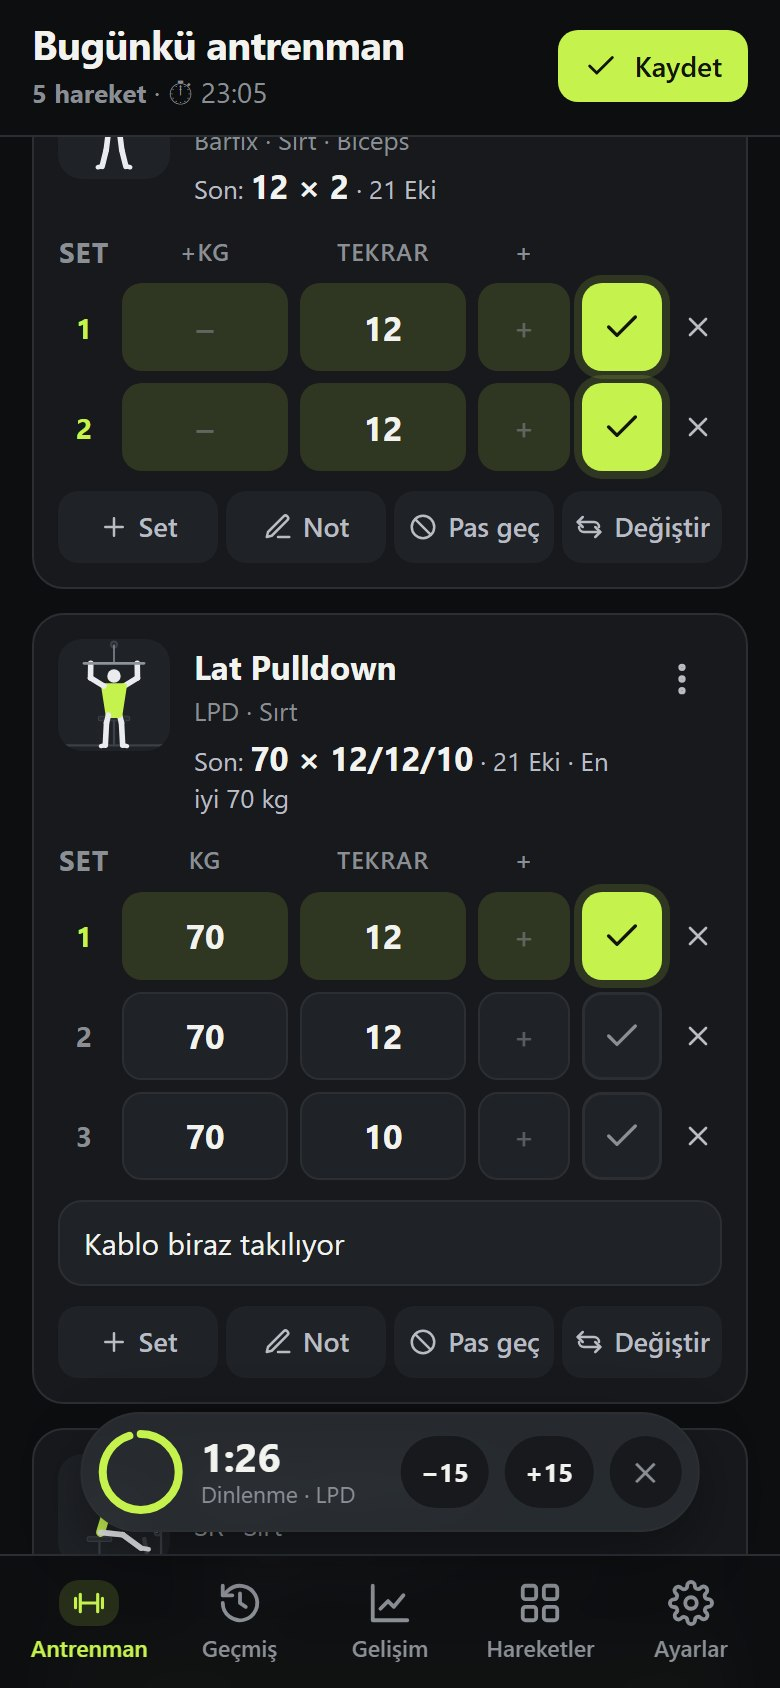
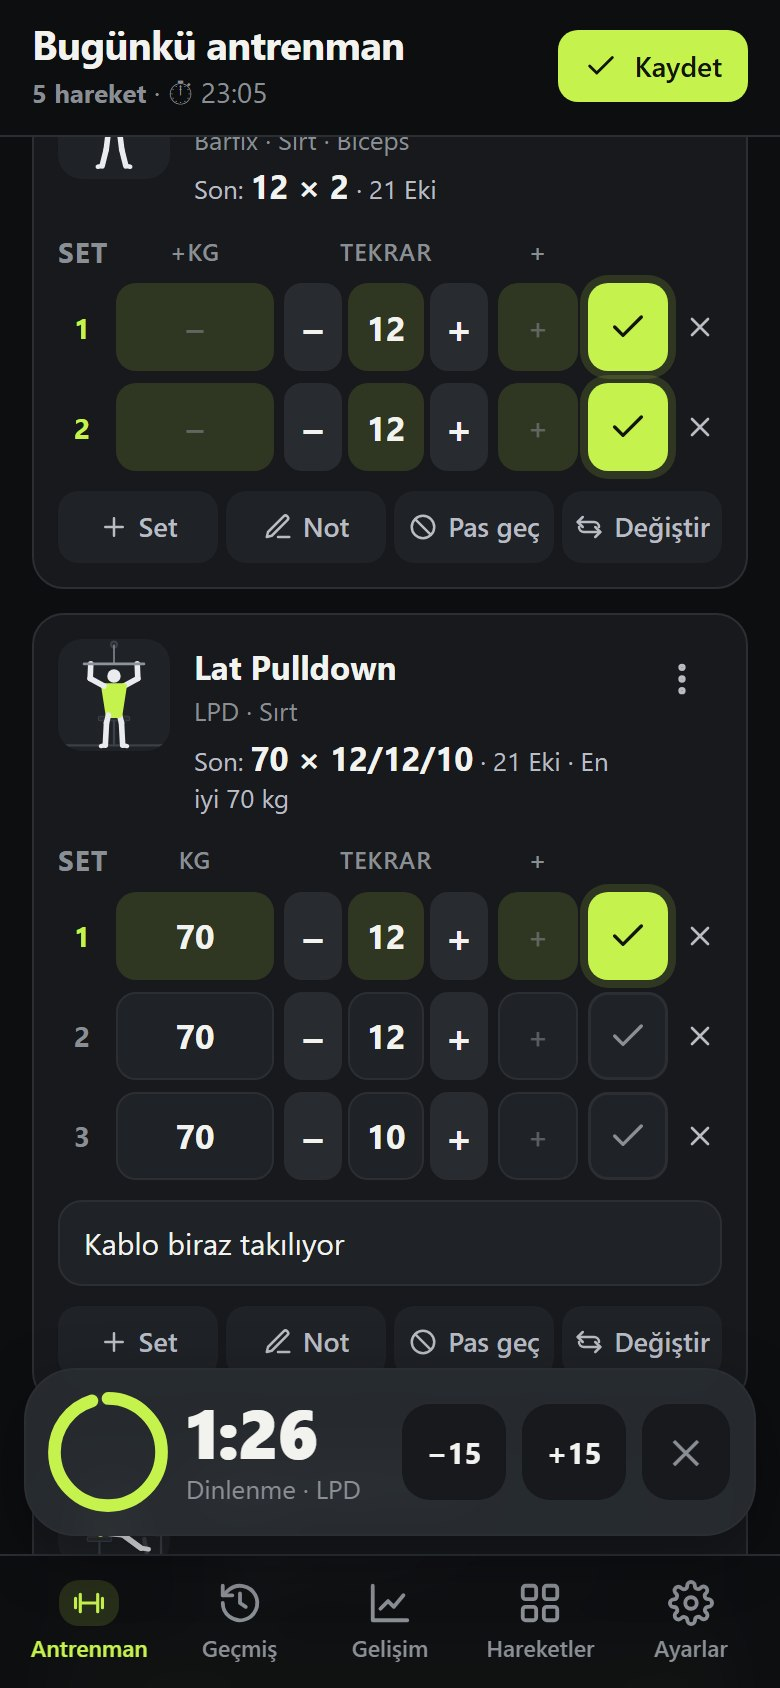
Fix backup download, add rep buttons, enlarge picker and rest timer
- Download the backup straight to Downloads instead of the share sheet,
  and explain that it does not need to be opened. Sharing to Drive or
  WhatsApp is a separate option, sent as a text file that phones accept.
- Add an "Install the app" button and banner, set a manifest id, allow
  any orientation and add install screenshots.
- Add −1/+1 buttons next to each reps field.
- Fix the animation grid in the exercise form collapsing to thin slices
  (grid rows now size to their content) and show larger previews there
  and in the exercise picker.
- Make the rest timer a wide card with a larger ring, time and buttons.

diff --git a/css/style.css b/css/style.css
@@ -281,11 +281,15 @@ select.input { appearance: none; background-image: linear-gradient(45deg, transp
 .skip-badge { display: inline-flex; align-items: center; gap: 6px; margin-top: 8px; color: var(--warn); font-weight: 650; font-size: 14px; }
 .skip-badge .ic { width: 16px; height: 16px; }
 .sets { display: grid; gap: 6px; margin-top: 12px; }
-.set-row { display: grid; grid-template-columns: 26px repeat(var(--cols, 2), minmax(0, 1fr)) 40px 24px; gap: 6px; align-items: center; position: relative; }
-.set-row:has(.small) { grid-template-columns: 26px minmax(0, 1fr) minmax(0, 1fr) 46px 40px 24px; }
-.sets.plan .set-row { grid-template-columns: 26px repeat(var(--cols, 2), minmax(0, 1fr)) 24px; }
-.sets.plan .set-row:has(.small) { grid-template-columns: 26px minmax(0, 1fr) minmax(0, 1fr) 46px 24px; }
-.set-row .set-del { width: 24px; }
+.set-row { display: grid; grid-template-columns: 24px repeat(var(--cols, 2), minmax(0, 1fr)) 40px 22px; gap: 5px; align-items: center; position: relative; }
+.set-row:has(.small) { grid-template-columns: 24px minmax(0, 1fr) 102px 40px 40px 22px; }
+.sets.plan .set-row { grid-template-columns: 24px repeat(var(--cols, 2), minmax(0, 1fr)) 22px; }
+.sets.plan .set-row:has(.small) { grid-template-columns: 24px minmax(0, 1fr) 102px 40px 22px; }
+.set-row .set-del { width: 22px; }
+.rep-step { display: flex; gap: 3px; min-width: 0; }
+.rep-step .set-in { flex: 1; min-width: 0; padding: 0; }
+.rep-btn { position: relative; overflow: hidden; flex: none; width: 29px; height: 44px; border-radius: 9px; border: 0; background: var(--surface-3); color: var(--text); font-size: 20px; font-weight: 700; line-height: 1; touch-action: manipulation; }
+.rep-btn:active { background: var(--accent-soft); color: var(--accent); }
 .set-row.head { font-size: 12px; color: var(--muted); font-weight: 600; text-transform: uppercase; letter-spacing: 0.04em; }
 .set-row.head .set-label { text-align: center; }
 .set-no { text-align: center; font-weight: 700; color: var(--muted); font-size: 14px; }
@@ -415,7 +419,9 @@ select.input { appearance: none; background-image: linear-gradient(45deg, transp
 .ex-tile .anim-box { margin-bottom: 4px; }
 .hidden-ex { margin-top: 20px; }
 .hidden-ex summary { color: var(--muted); font-weight: 600; padding: 8px 2px; cursor: pointer; }
-.anim-grid { display: grid; grid-template-columns: repeat(auto-fill, minmax(76px, 1fr)); gap: 8px; max-height: 300px; overflow-y: auto; padding: 2px; }
+.anim-grid { display: grid; grid-template-columns: repeat(auto-fill, minmax(96px, 1fr)); grid-auto-rows: max-content; gap: 8px; max-height: 420px; overflow-y: auto; padding: 2px; }
+.anim-choice .anim-box.sm { width: 80px; height: 80px; }
+.pick-row .anim-box.sm { width: 64px; height: 64px; }
 .anim-choice { display: grid; justify-items: center; gap: 4px; padding: 6px 4px; border-radius: 12px; border: 1px solid var(--line); background: var(--surface); font-size: 11.5px; color: var(--text-2); }
 .anim-choice.on { border-color: var(--accent); background: var(--accent-soft); color: var(--accent); }
 .plan-card .mini-anims { margin-top: 10px; }
@@ -523,23 +529,23 @@ select.input { appearance: none; background-image: linear-gradient(45deg, transp
 
 /* Dinlenme sayacı */
 .rest {
-  position: fixed; left: 50%; bottom: calc(var(--nav-h) + 14px + env(safe-area-inset-bottom)); z-index: 60;
-  display: flex; align-items: center; gap: 8px; padding: 7px 8px 7px 7px; border-radius: 999px;
+  position: fixed; left: 50%; bottom: calc(var(--nav-h) + 12px + env(safe-area-inset-bottom)); z-index: 60;
+  display: flex; align-items: center; gap: 8px; padding: 10px 12px 10px 10px; border-radius: 26px;
+  width: calc(100% - 24px); max-width: 460px;
   background: color-mix(in srgb, var(--surface-3) 92%, transparent); border: 1px solid var(--line); box-shadow: var(--shadow);
   backdrop-filter: blur(12px); -webkit-backdrop-filter: blur(12px);
   transform: translateX(-50%) translateY(160%); opacity: 0; pointer-events: none;
   transition: transform 0.4s cubic-bezier(.2, 1.3, .3, 1), opacity 0.25s;
-  max-width: calc(100% - 24px);
 }
 .rest.show { transform: translateX(-50%) translateY(0); opacity: 1; pointer-events: auto; }
-.rest-ring { width: 44px; height: 44px; flex: none; transform: rotate(-90deg); }
-.rest-ring .track { fill: none; stroke: var(--line); stroke-width: 4; }
-.rest-ring .bar { fill: none; stroke: var(--accent); stroke-width: 4; stroke-linecap: round; transition: stroke-dashoffset 0.25s linear; }
-.rest-text { display: grid; min-width: 92px; }
-.rest-time { font-size: 20px; font-variant-numeric: tabular-nums; line-height: 1.1; }
-.rest-label { font-size: 11.5px; color: var(--muted); white-space: nowrap; overflow: hidden; text-overflow: ellipsis; max-width: 130px; }
-.rest-btn { border: 0; background: var(--surface); color: var(--text); border-radius: 999px; height: 36px; min-width: 40px; padding: 0 10px; font-weight: 700; font-size: 13px; }
-.rest-btn.x { min-width: 36px; padding: 0; color: var(--muted); }
+.rest-ring { width: 62px; height: 62px; flex: none; transform: rotate(-90deg); }
+.rest-ring .track { fill: none; stroke: var(--line); stroke-width: 4.5; }
+.rest-ring .bar { fill: none; stroke: var(--accent); stroke-width: 4.5; stroke-linecap: round; transition: stroke-dashoffset 0.25s linear; }
+.rest-text { display: grid; flex: 1; min-width: 0; }
+.rest-time { font-size: 34px; font-weight: 800; font-variant-numeric: tabular-nums; line-height: 1; letter-spacing: -0.02em; }
+.rest-label { font-size: 13px; color: var(--muted); white-space: nowrap; overflow: hidden; text-overflow: ellipsis; margin-top: 3px; }
+.rest-btn { flex: none; border: 0; background: var(--surface); color: var(--text); border-radius: 14px; height: 48px; min-width: 52px; padding: 0 8px; font-weight: 750; font-size: 15px; }
+.rest-btn.x { min-width: 44px; padding: 0; color: var(--muted); font-size: 17px; }
 .rest.soon .rest-time { color: var(--warn); animation: pulse 0.5s ease-in-out infinite alternate; }
 .rest.done { background: var(--accent); border-color: transparent; animation: shake 0.45s ease 2; }
 .rest.done .rest-time, .rest.done .rest-label { color: var(--on-accent); }
@@ -564,6 +570,8 @@ select.input { appearance: none; background-image: linear-gradient(45deg, transp
 .ex-card.in-ss { border-left: 3px solid var(--series); }
 .ss-link { display: flex; align-items: center; justify-content: center; gap: 6px; margin: -6px 0; color: var(--series); font-size: 12px; font-weight: 700; text-transform: uppercase; letter-spacing: 0.06em; }
 .ss-link .ic { width: 14px; height: 14px; }
+.banner.install { padding: 8px 8px 8px 12px; }
+.banner.install > .ic { color: var(--series); }
 .banner.comeback { align-items: flex-start; background: rgba(250, 178, 25, 0.12); border-color: rgba(250, 178, 25, 0.45); margin: 12px 0 0; }
 .banner.comeback > .ic { color: var(--warn); margin-top: 2px; }
 .banner.comeback p { margin: 2px 0 0; color: var(--text-2); }

diff --git a/js/app.js b/js/app.js
@@ -164,6 +164,12 @@ function StartView() {
     return page;
   }
 
+  if (installEvt && !standalone() && !state.settings.installHidden) {
+    page.append(h('div.banner.install', null, icon('download'), h('span.grow', null, t("GymLog'u ana ekrana ekle")),
+      h('button.btn.sm.primary', { onclick: installApp }, t('Yükle')),
+      h('button.icon-btn.sm', { 'aria-label': t('Kapat'), onclick: () => { state.settings.installHidden = true; commit(); rerender(); } }, icon('x'))));
+  }
+
   const last = all[0];
   if (last) {
     const wp = weekProgress();
@@ -654,7 +660,22 @@ function ItemCard(doc, i, ctx) {
         all[all.indexOf(input) + 1]?.focus();
       });
       inputs[f.k] = input;
-      row.append(input);
+      if (f.k === 'r') {
+        // Tekrar için −1 / +1: boşsa geçen seferki tekrardan başlar
+        const step = (d) => {
+          const base = set.r ?? parseNum(input.placeholder) ?? 0;
+          set.r = Math.max(0, base + d);
+          input.value = String(set.r);
+          haptic(6);
+          pop(input);
+          ctx.changed();
+          markPR();
+        };
+        row.append(h('div.rep-step', null,
+          h('button.rep-btn', { type: 'button', 'aria-label': t('{n}. set tekrar −1', { n: j + 1 }), onclick: () => step(-1) }, '−'),
+          input,
+          h('button.rep-btn', { type: 'button', 'aria-label': t('{n}. set tekrar +1', { n: j + 1 }), onclick: () => step(1) }, '+')));
+      } else row.append(input);
     }
     if (!isPlan) {
       const check = h('button.set-check' + (set.done ? '.done' : ''), { type: 'button', 'aria-label': t('{n}. seti tamamla', { n: j + 1 }), 'aria-pressed': String(!!set.done) }, icon('check'));
@@ -1335,10 +1356,15 @@ function SettingsView() {
   page.append(pageHead(t('Ayarlar')));
   if (DEMO) page.append(demoBanner());
   const lb = state.settings.lastBackup;
+  if (!standalone()) {
+    page.append(section(t('Uygulama'), h('div.list', null,
+      settingRow('download', t('Uygulamayı yükle'), t('Ana ekrana ekle; tam ekran ve internetsiz açılır.'), installApp))));
+  }
   page.append(section(t('Veriler'),
     h('div.list', null,
       settingRow('file', t('Eski notlarımı içe aktar'), t('Telefondaki metin notlarını yapıştır, antrenmanlara çevireyim.'), () => importSheet()),
       settingRow('download', t('Yedeği indir'), lb ? t('Son yedek: {d}', { d: relDays(lb) }) : t('Henüz yedek alınmadı. Verilerin sadece bu cihazda.'), exportBackup),
+      textShareOK() ? settingRow('copy', t('Yedeği paylaş'), t('Drive, WhatsApp ya da e-postaya gönder.'), shareBackup) : null,
       settingRow('upload', t('Yedekten geri yükle'), t('Daha önce indirdiğin .json dosyasını seç.'), importBackup),
       sessions().length ? settingRow('sparkle', t('Geçmişten plan öner'), t('Sık tekrarladığın antrenmanları plan yap.'), () => planSuggestions()) : null)));
 
@@ -1392,25 +1418,66 @@ function settingRow(ic, title, desc, onclick, danger = false) {
   return h('button.setting-row' + (danger ? '.danger' : ''), { onclick }, icon(ic), h('span.grow', null, h('b', null, title), h('span.muted.small', null, desc)), icon('back', 'chev'));
 }
 
+const backupData = () => JSON.stringify({ app: 'gymlog', version: 1, exportedAt: new Date().toISOString(), data: state }, null, 1);
+const backupName = (ext) => `gymlog-${t('yedek')}-${today()}.${ext}`;
+const backupDone = () => { state.settings.lastBackup = today(); commit(); rerender(); };
+
+// Dosya doğrudan İndirilenler'e iner (telefonun JSON açamaması sorun değil; geri yüklerken seçilir)
 function exportBackup() {
-  const data = JSON.stringify({ app: 'gymlog', version: 1, exportedAt: new Date().toISOString(), data: { ...state, draft: state.draft } }, null, 1);
-  const name = `gymlog-${t('yedek')}-${today()}.json`;
-  const file = new File([data], name, { type: 'application/json' });
-  const finish = () => { state.settings.lastBackup = today(); commit(); rerender(); };
-  if (navigator.canShare?.({ files: [file] }) && /Android|iPhone|iPad/i.test(navigator.userAgent)) {
-    navigator.share({ files: [file], title: t('GymLog yedeği') }).then(finish).catch(() => {});
-    return;
-  }
-  const a = h('a', { href: URL.createObjectURL(file), download: name });
+  const url = URL.createObjectURL(new Blob([backupData()], { type: 'application/json' }));
+  const a = h('a', { href: url, download: backupName('json') });
   document.body.append(a);
   a.click();
   a.remove();
-  finish();
-  toast(t('Yedek indirildi'));
+  setTimeout(() => URL.revokeObjectURL(url), 5000);
+  backupDone();
+  haptic(10);
+  toast(t('Yedek İndirilenler klasörüne kaydedildi. Açmana gerek yok; geri yüklerken bu dosyayı seç.'), 5000);
+}
+
+// Telefonlar JSON paylaşımına izin vermediği için düz metin dosyası olarak paylaşılır
+const textShareOK = () => {
+  try { return !!navigator.canShare?.({ files: [new File(['x'], 'x.txt', { type: 'text/plain' })] }); } catch { return false; }
+};
+function shareBackup() {
+  const file = new File([backupData()], backupName('txt'), { type: 'text/plain' });
+  navigator.share({ files: [file], title: t('GymLog yedeği') }).then(backupDone).catch(() => {});
+}
+
+// ---------- Ana ekrana yükleme ----------
+let installEvt = null;
+const standalone = () => matchMedia('(display-mode: standalone)').matches || navigator.standalone === true;
+window.addEventListener('beforeinstallprompt', (e) => {
+  e.preventDefault();
+  installEvt = e;
+  const { tab } = parseRoute();
+  if (tab === 'settings' || (tab === 'workout' && !state.draft)) rerender();
+});
+window.addEventListener('appinstalled', () => {
+  installEvt = null;
+  toast(t('GymLog ana ekrana eklendi'));
+  rerender();
+});
+async function installApp() {
+  if (installEvt) {
+    const evt = installEvt;
+    installEvt = null;
+    evt.prompt();
+    await evt.userChoice.catch(() => null);
+    rerender();
+    return;
+  }
+  const ios = /iPhone|iPad|iPod/i.test(navigator.userAgent);
+  sheet({
+    title: t('Uygulamayı yükle'),
+    body: h('div.form', null,
+      h('p', null, t(ios ? 'Safari\'de alttaki Paylaş düğmesine dokun, sonra "Ana Ekrana Ekle"yi seç.' : 'Chrome\'da sağ üstteki ⋮ menüsünü aç, "Uygulamayı yükle" ya da "Ana ekrana ekle"yi seç.')),
+      h('p.muted.small', null, t('Yüklenince GymLog kendi simgesiyle, tam ekran ve internetsiz açılır.'))),
+  });
 }
 
 function importBackup() {
-  const input = h('input', { type: 'file', accept: '.json,application/json' });
+  const input = h('input', { type: 'file', accept: '.json,.txt,application/json,text/plain' });
   input.addEventListener('change', async () => {
     const f = input.files?.[0];
     if (!f) return;

diff --git a/js/i18n.js b/js/i18n.js
@@ -395,6 +395,22 @@ const EN = {
   'Titreşim': 'Vibration',
   'Set tamamlanınca ve sayaç bitince titreşir.': 'Vibrates when you complete a set and when rest is over.',
 
+  // Tekrar düğmeleri, yükleme, yedek
+  '{n}. set tekrar −1': 'Set {n} reps −1',
+  '{n}. set tekrar +1': 'Set {n} reps +1',
+  'Uygulama': 'App',
+  'Uygulamayı yükle': 'Install the app',
+  'Ana ekrana ekle; tam ekran ve internetsiz açılır.': 'Add it to your home screen; it opens full screen and works offline.',
+  "GymLog'u ana ekrana ekle": 'Add GymLog to your home screen',
+  'Yükle': 'Install',
+  'GymLog ana ekrana eklendi': 'GymLog was added to your home screen',
+  "Safari'de alttaki Paylaş düğmesine dokun, sonra \"Ana Ekrana Ekle\"yi seç.": 'In Safari, tap the Share button, then choose "Add to Home Screen".',
+  "Chrome'da sağ üstteki ⋮ menüsünü aç, \"Uygulamayı yükle\" ya da \"Ana ekrana ekle\"yi seç.": 'In Chrome, open the ⋮ menu at the top right and choose "Install app" or "Add to Home screen".',
+  'Yüklenince GymLog kendi simgesiyle, tam ekran ve internetsiz açılır.': 'Once installed, GymLog opens from its own icon, full screen and offline.',
+  'Yedek İndirilenler klasörüne kaydedildi. Açmana gerek yok; geri yüklerken bu dosyayı seç.': 'Backup saved to Downloads. No need to open it; pick this file when you restore.',
+  'Yedeği paylaş': 'Share backup',
+  'Drive, WhatsApp ya da e-postaya gönder.': 'Send it to Drive, WhatsApp or email.',
+
   // Örnek veriler
   'Omuz + Triceps': 'Shoulders + Triceps',
   'Sırt + Biceps': 'Back + Biceps',

diff --git a/js/ui.js b/js/ui.js
@@ -168,7 +168,7 @@ export function menu(title, items) {
 }
 
 let toastTimer = 0;
-export function toast(msg) {
+export function toast(msg, ms = 2600) {
   let el = document.querySelector('.toast');
   if (!el) {
     el = h('div.toast', { role: 'status' });
@@ -177,7 +177,7 @@ export function toast(msg) {
   el.textContent = msg;
   el.classList.add('show');
   clearTimeout(toastTimer);
-  toastTimer = setTimeout(() => el.classList.remove('show'), 2600);
+  toastTimer = setTimeout(() => el.classList.remove('show'), ms);
 }
 
 export function chips(options, selected, onChange, { multi = true, className = '' } = {}) {

diff --git a/js/juice.js b/js/juice.js
@@ -35,7 +35,7 @@ export function beep() {
 }
 
 // Dokunulan yerden yayılan dalga
-const RIPPLE = '.btn, .chip, .seg-btn, .nav-item, .set-check, .pick-row, .menu-item, .setting-row, .ex-tile, .session-card, .mood, .add-ex, .anim-choice, .suggest-chip, .icon-btn';
+const RIPPLE = '.btn, .rep-btn, .chip, .seg-btn, .nav-item, .set-check, .pick-row, .menu-item, .setting-row, .ex-tile, .session-card, .mood, .add-ex, .anim-choice, .suggest-chip, .icon-btn';
 document.addEventListener('pointerdown', (e) => {
   const el = e.target.closest(RIPPLE);
   if (!el || reduced()) return;

diff --git a/sw.js b/sw.js
@@ -1,5 +1,5 @@
 // Uygulama dosyalarını önbelleğe alır; önce ağdan dener ki güncellemeler hemen gelsin, salonda internet yoksa önbellekten açılır.
-const CACHE = 'gymlog-v4';
+const CACHE = 'gymlog-v5';
 const ASSETS = [
   './',
   'index.html',

diff --git a/README.md b/README.md
@@ -40,7 +40,7 @@ It is a progressive web app (PWA): it runs in the phone's browser, can be instal
 
 **Logging**
 - Pick the muscle groups for the day (chest, back, shoulders, biceps, triceps, legs, core, cardio) and choose exercises from those groups, or search by name or abbreviation.
-- Per set: weight, reps and assisted/partial reps (`7+3`). Bodyweight, timed and cardio exercises have their own fields.
+- Per set: weight, reps (type them or use the −1/+1 buttons) and assisted/partial reps (`7+3`). Bodyweight, timed and cardio exercises have their own fields.
 - Last time's numbers appear on every exercise and as placeholders in the inputs. A new record is highlighted while you type.
 - Change the first set's weight and the following sets with the same weight update too.
 - Swap an exercise for another one from the same group, reorder, skip ("pas geç") or add a note to a single exercise (for example "machine was broken").
@@ -83,7 +83,7 @@ It is a progressive web app (PWA): it runs in the phone's browser, can be instal
 
 ## Getting started
 
-1. Open <https://kaansoyaslan.github.io/gymlog/> in **Chrome** on your phone, then use ⋮ → **Add to Home screen** (or **Install app**).
+1. Open <https://kaansoyaslan.github.io/gymlog/> in **Chrome** on your phone, then use ⋮ → **Install app** (or **Add to Home screen**), or the **Install the app** button in Settings.
 2. To bring in your old notes: **Settings → Import my old notes**, paste the text, check the preview and import.
 3. On the **Workout** tab, start from a plan, copy a previous workout or start an empty one.
 4. Take a backup now and then (**Settings → Download backup**). You can restore it on another phone.
@@ -162,7 +162,7 @@ Telefonun tarayıcısında çalışan bir web uygulamasıdır (PWA): ana ekrana 
 
 **Kayıt**
 - Günün bölgelerini seç (göğüs, sırt, omuz, biceps, triceps, bacak, karın, kardiyo), hareketleri bu bölgelerden seç ya da adıyla veya kısaltmasıyla ara.
-- Her set için ağırlık, tekrar ve yardımlı/yarım tekrar (`7+3`). Vücut ağırlığı, süreli ve kardiyo hareketlerinin kendi alanları var.
+- Her set için ağırlık, tekrar (yazarak ya da −1/+1 düğmeleriyle) ve yardımlı/yarım tekrar (`7+3`). Vücut ağırlığı, süreli ve kardiyo hareketlerinin kendi alanları var.
 - Her harekette geçen seferki rakamlar görünür, kutulara da silik olarak yazılır. Yeni rekor yazarken vurgulanır.
 - İlk setin ağırlığını değiştirince aynı ağırlıktaki sonraki setler de güncellenir.
 - Bir hareketi aynı bölgeden başka bir hareketle değiştir, sırasını değiştir, pas geç ya da sadece o harekete not düş (ör. "alet bozuktu").
@@ -205,7 +205,7 @@ Telefonun tarayıcısında çalışan bir web uygulamasıdır (PWA): ana ekrana 
 
 ### Başlarken
 
-1. Telefonda **Chrome** ile <https://kaansoyaslan.github.io/gymlog/> adresini aç, ⋮ → **Ana ekrana ekle** (ya da **Uygulamayı yükle**) de.
+1. Telefonda **Chrome** ile <https://kaansoyaslan.github.io/gymlog/> adresini aç, ⋮ → **Uygulamayı yükle** (ya da **Ana ekrana ekle**) de ya da Ayarlar'daki **Uygulamayı yükle** düğmesini kullan.
 2. Eski notlarını almak için: **Ayarlar → Eski notlarımı içe aktar**, metni yapıştır, önizlemeyi kontrol et ve içe aktar.
 3. **Antrenman** sekmesinde bir plandan başla, önceki antrenmanı kopyala ya da boş bir antrenman başlat.
 4. Arada bir yedek al (**Ayarlar → Yedeği indir**). Yedeği başka bir telefonda geri yükleyebilirsin.
